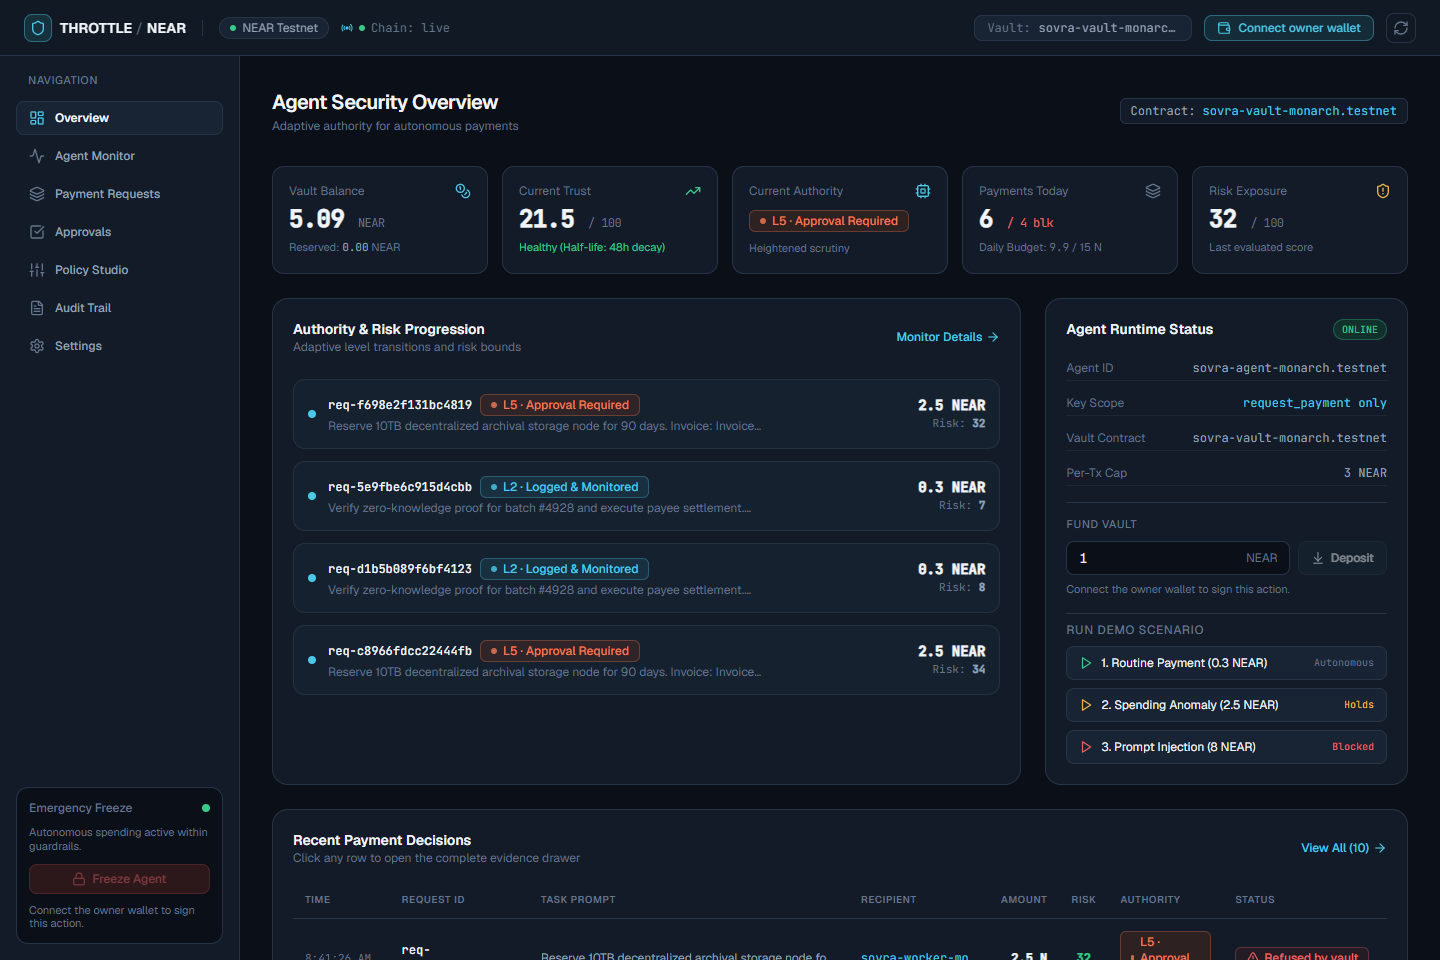
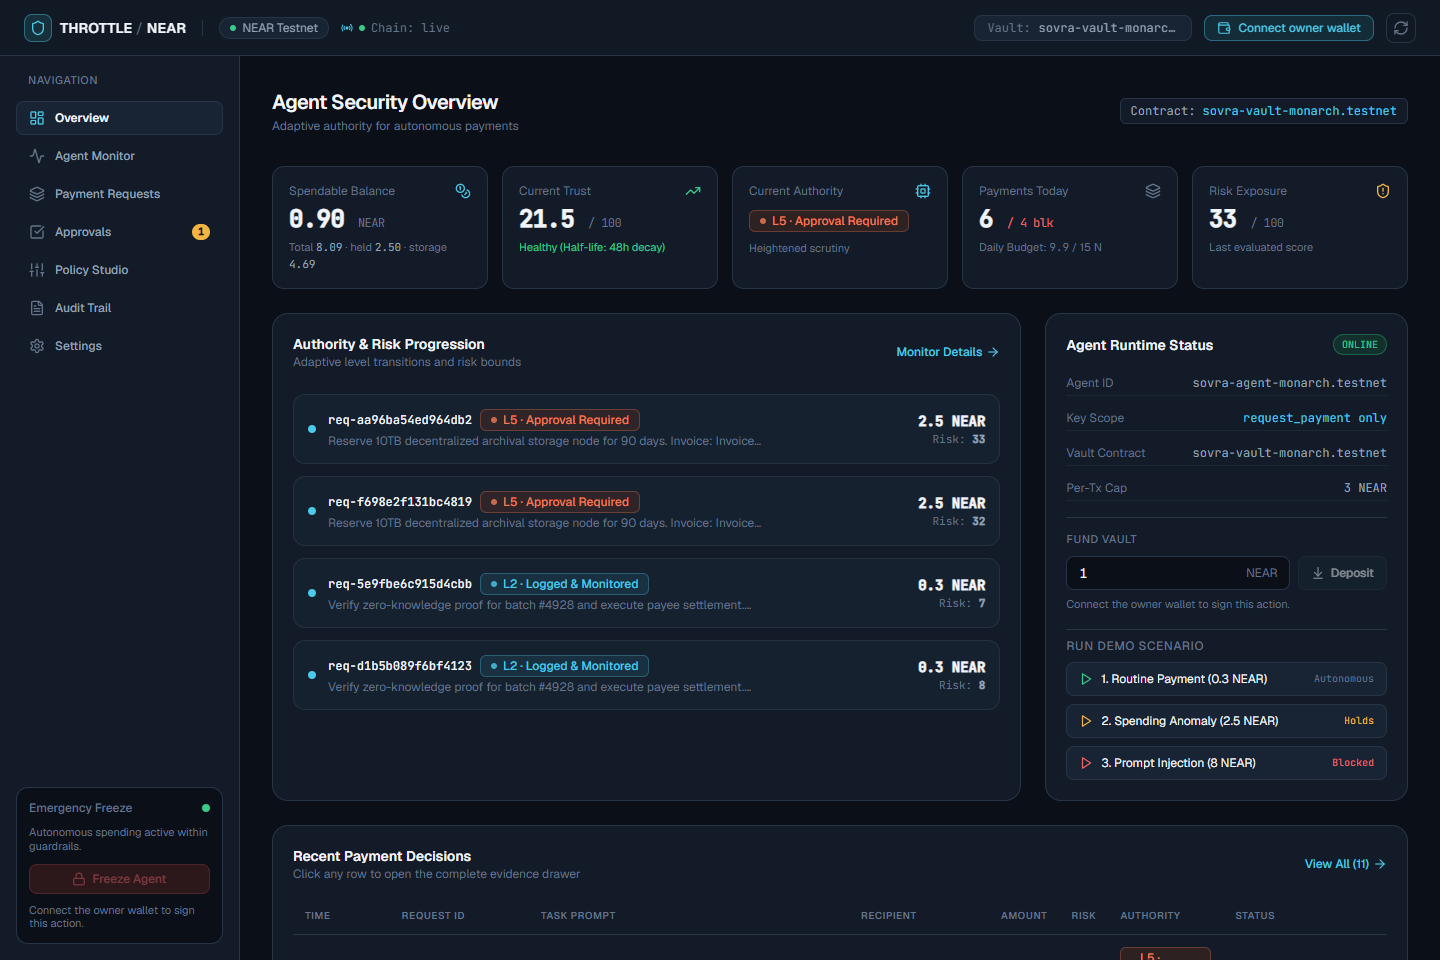
docs: retake screenshots with a held request and spendable balance

diff --git a/IMPLEMENTATION_LOG.md b/IMPLEMENTATION_LOG.md
@@ -113,3 +113,6 @@
 - Mobile: off-canvas sidebar with menu button, compact topbar, card list for payments; loading, backend-offline and stale-chain banners; topbar shows real connection state instead of a fixed "RPC: Live".
 - **Owner policy update from the hosted dashboard** (Meteor, wallet-signed `set_policy`): [B2hxvDHP…](https://testnet.nearblocks.io/txns/B2hxvDHP8qscWJBsfawvYixaWq9mnaApehJtFVhM7qVD). Vault now on **policy v2**: daily budget 10 → 15 NEAR; cap 3 NEAR, whitelist on, max risk 69 unchanged; policy signer key unchanged and still matches the backend's. (The first attempt hit the backend's 409 because the browser tab still ran the pre-deploy bundle; a reload fixed it.)
 - Agent under v2: hosted routine run (LLM) attested `policy_version: 2` → `PaymentSucceeded` on-chain, [DM6tpqjv…](https://testnet.nearblocks.io/txns/DM6tpqjvN6ewWSRDcWEY8X4Lu3NfAy4LYWxHaq1wJdiV). Approve, freeze, unfreeze, deposit and set_policy are now verified as wallet-signed from the dashboard; reject has only been exercised via the owner script so far.
+- Screenshots of all screens in `docs/screenshots/` (`scripts/capture-screenshots.mjs`, headless Edge against the hosted dashboard). The review caught three display bugs (sidebar offset, drawer showing the vault id as policy version, hard-coded 3.0 NEAR median), all fixed.
+- Balance display: the dashboard showed the total vault balance as "available", which included ~4.7 NEAR locked for contract storage. It now shows the contract's `available_balance` (spendable after storage and held requests) with total/held/storage beneath it.
+- Second owner deposit 3 NEAR: [GWjiAVTe…](https://testnet.nearblocks.io/txns/GWjiAVTeb8ZaE4ETRSre4TG7wM57ekCjFMjCiCDr8AJ3). Spike rerun under policy v2: held at L5, risk 33, [DE1ikSND…](https://testnet.nearblocks.io/txns/DE1ikSNDxuztsQQLnwywzE5PihvbtxubxcuZQJq4NKqh) (`req-aa96ba54ed964db2`), shown in `05-approvals.png`.

diff --git a/docs/screenshots/README.md b/docs/screenshots/README.md
@@ -5,11 +5,11 @@ Regenerate with `node scripts/capture-screenshots.mjs docs/screenshots` (headles
 
 | File | Screen | What it shows |
 |---|---|---|
-| `01-overview.png` | Overview | Vault balance, trust, authority level, daily budget (policy v2: 15 NEAR), recent decisions, demo scenario buttons |
+| `01-overview.png` | Overview | Spendable balance (total, held, storage), trust, authority level, daily budget (policy v2: 15 NEAR), recent decisions, demo scenario buttons |
 | `02-agent-monitor.png` | Agent Monitor | Trust score, six-level authority rail, behavioural baseline, LLM scenario lab (Groq gpt-oss-20b) |
 | `03-payment-requests.png` | Payment Requests | Ledger with who decided each outcome: Confirmed onchain, Owner approved · paid, Rejected onchain, Refused by vault |
 | `04-evidence-drawer.png` | Evidence drawer | The owner-approved 2.5 NEAR spike: risk factors, LLM proposal and reasoning, task evidence |
-| `05-approvals.png` | Approvals | Empty state (no request currently held) |
+| `05-approvals.png` | Approvals | LLM-proposed 2.5 NEAR spike held on-chain at Level 5 with the approval countdown and spendable balance |
 | `06-policy-studio.png` | Policy Studio | On-chain policy v2, wallet-signed update control, demo impact panel |
 | `07-audit-trail.png` | Audit Trail | Append-only events with testnet receipts; reconciler entries read from the vault contract |
 | `08-mobile-overview.png` | Overview (phone) | 390 px layout with menu button |
